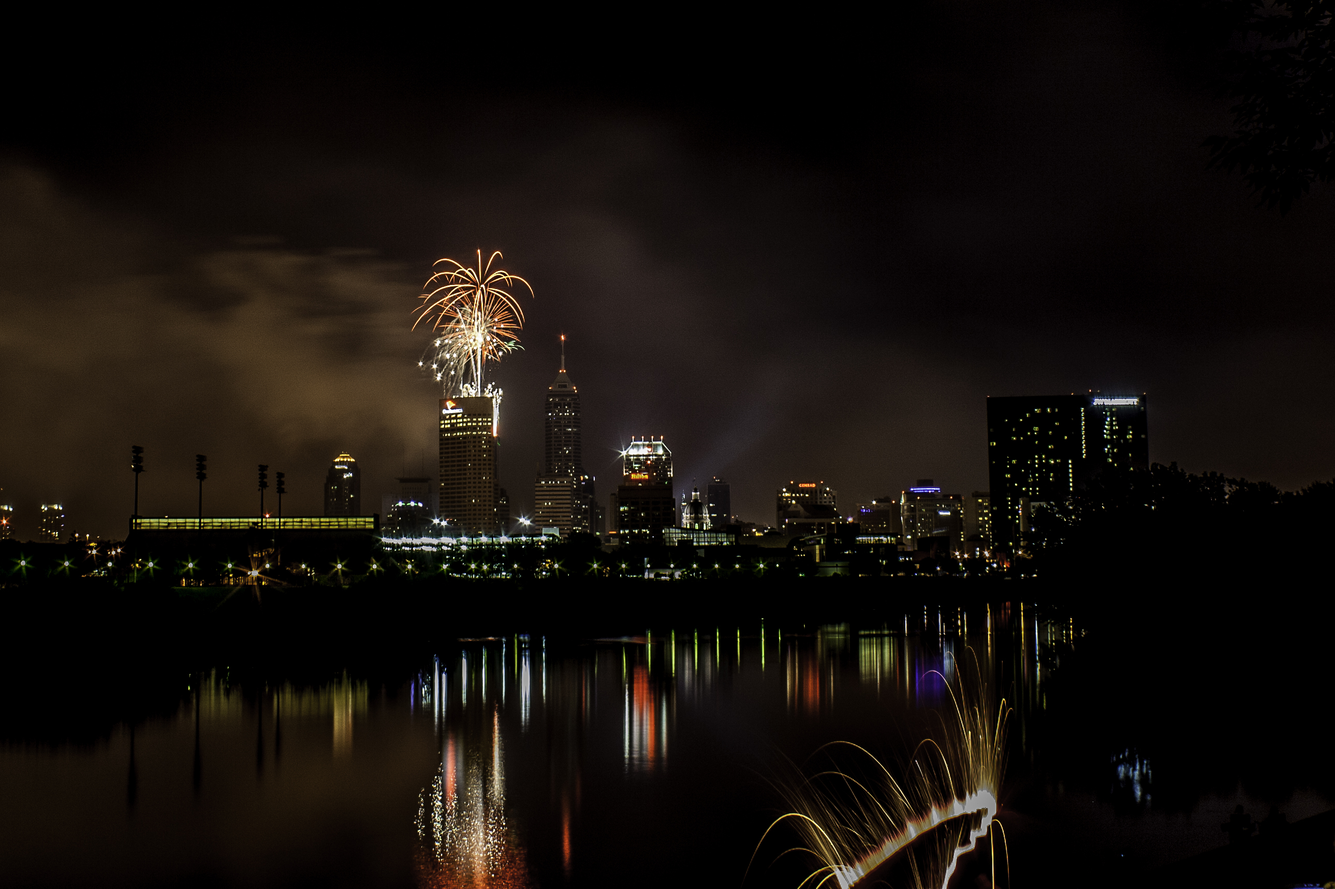
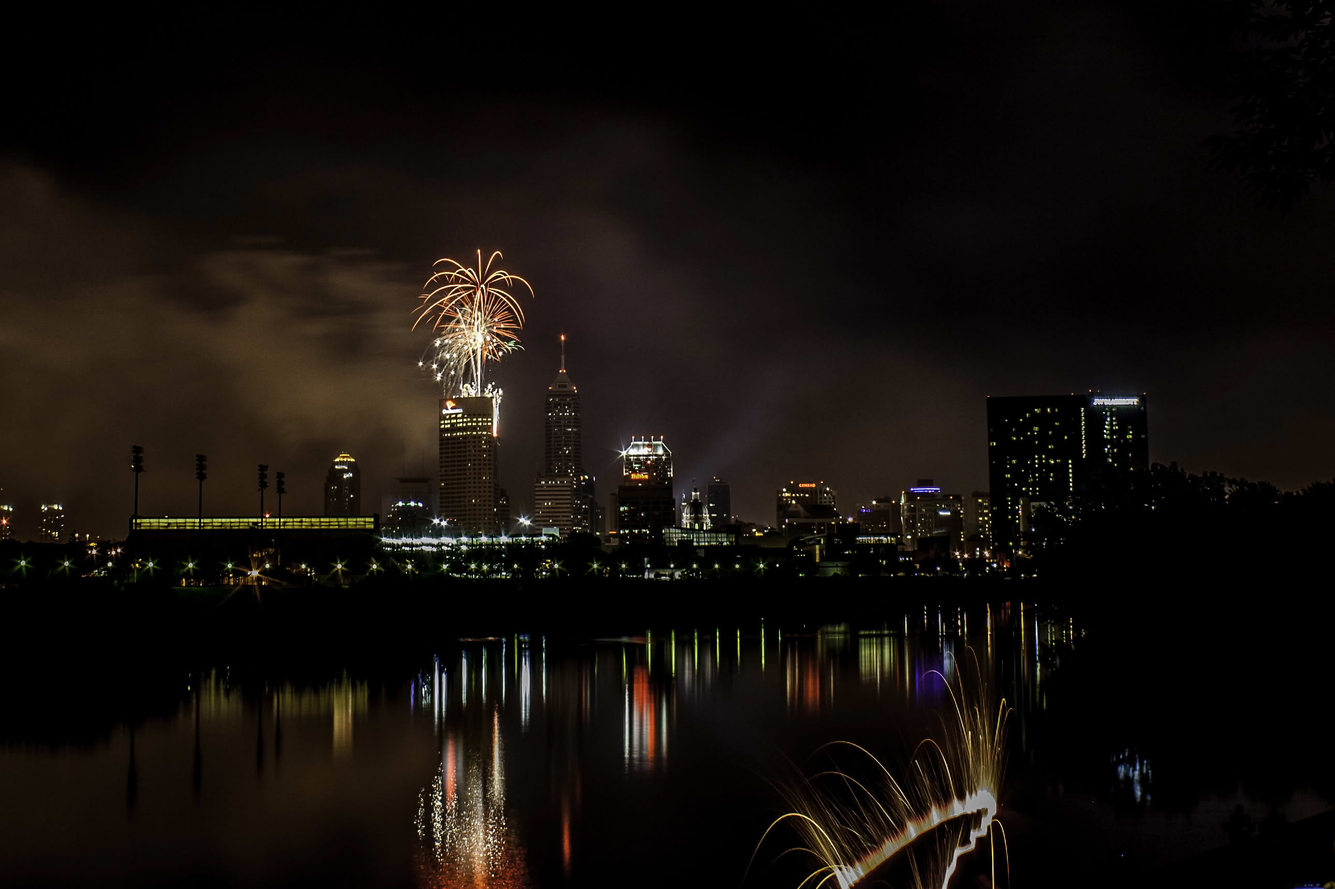
perf: optimize images using jpegli

Changed region(s): [[0.3102, 0.2775, 0.4033, 0.4008], [0.3102, 0.8941, 0.3722, 0.9866]]

diff --git a/src/site/images/scenes/README.md b/src/site/images/scenes/README.md
@@ -1,3 +1,8 @@
+# Scene Images
+
+Scene images were sourced from Wikimedia Commons and downsized using
+[jpegli](https://github.com/google/jpegli) at quality 3.0
+
 # Image Attribution
 
 - Baltimore: https://commons.wikimedia.org/wiki/File:Baltimore_Skyline_2.jpg
